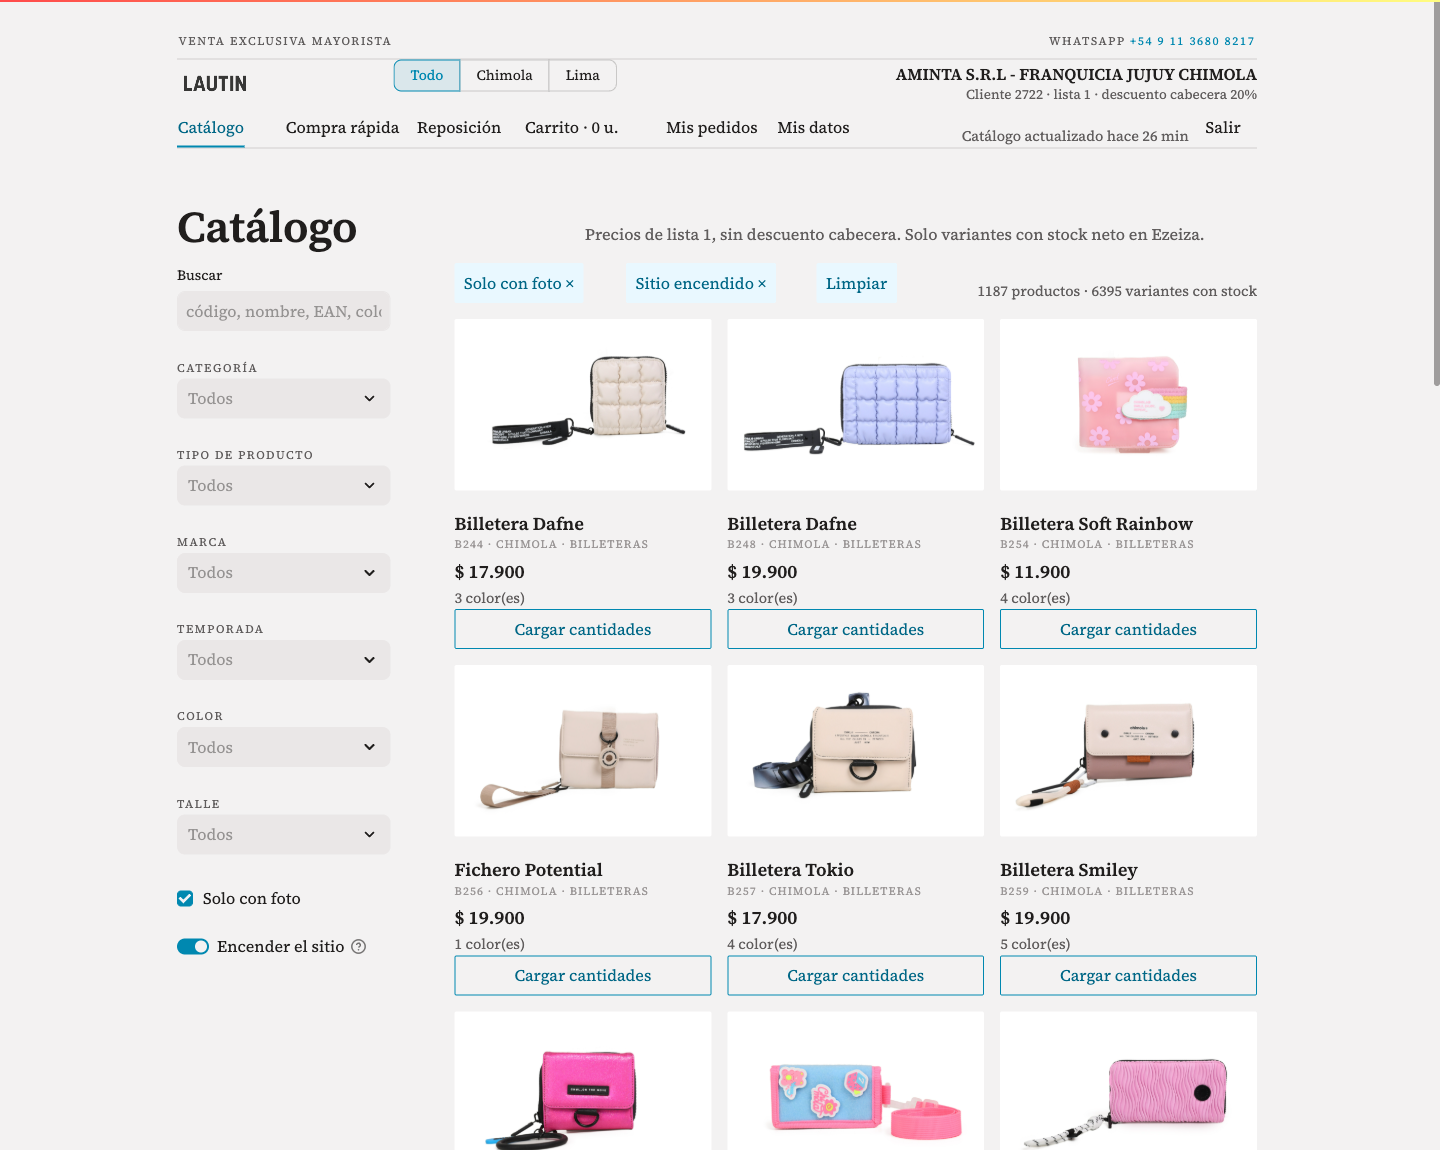
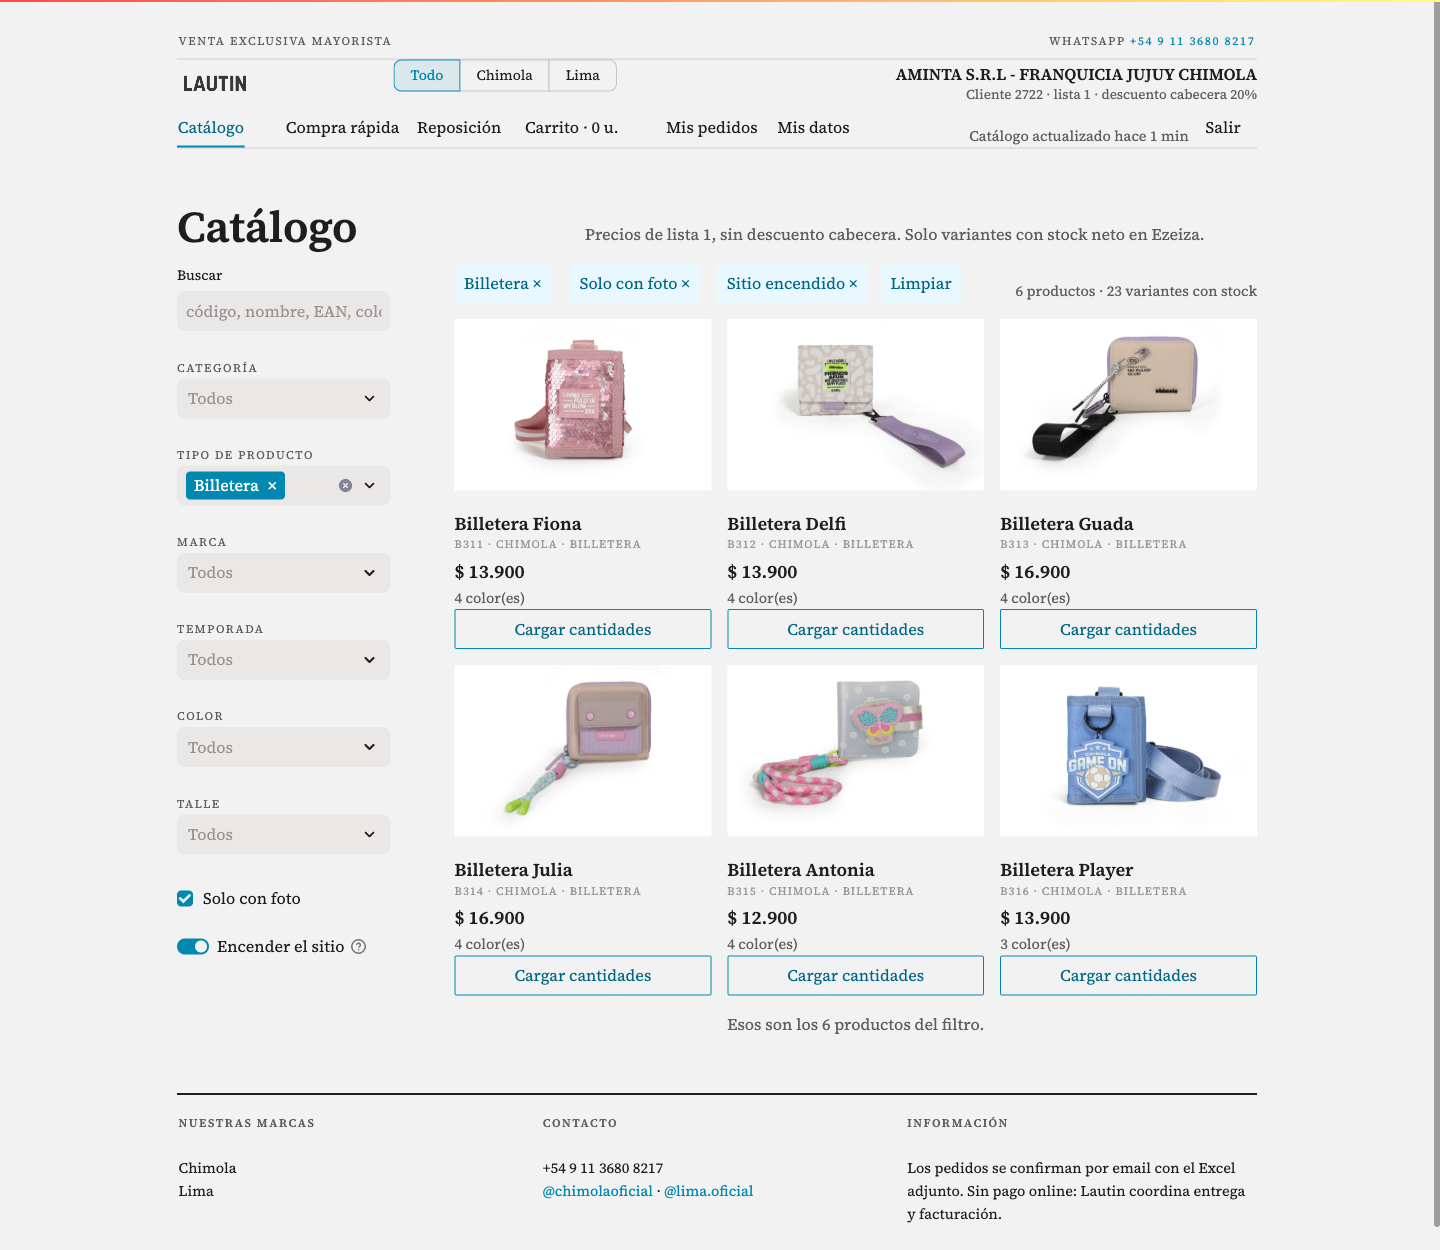
Presentación v3: narrativa 1-5, ficha de producto, bandas admin, Excel render, impersonal
Claude-Session: https://claude.ai/code/session_01L96DzHR7EepPvCdgaQbg37

diff --git a/presentacion/index.html b/presentacion/index.html
@@ -71,6 +71,13 @@
     padding: 5px 11px; border-radius: 2px; opacity: 0; animation: prende 7s ease-in-out infinite; }
   @keyframes apaga { 0%, 45% { opacity: 1; } 50%, 95% { opacity: 0; } 100% { opacity: 1; } }
   .xfade .tag1 { animation: apaga 7s ease-in-out infinite; background: var(--tinta); }
+  .fase { position: absolute; left: 0; right: 0; bottom: 0; background: rgba(32, 30, 29, .85);
+    color: #fff; padding: 9px 16px; font-size: 12px; letter-spacing: .1em; text-transform: uppercase;
+    font-weight: 600; }
+  .figura { position: relative; }
+  .xfade .fase2 { opacity: 0; animation: prende 7s ease-in-out infinite; }
+  .xfade .fase1b { animation: apaga 7s ease-in-out infinite; }
+  .xfade.lento img + img, .xfade.lento .fase2, .xfade.lento .fase1b { animation-duration: 13s; }
 
   .centro { text-align: center; flex-direction: column; }
   .logo { height: 58px; margin-bottom: 34px; }
@@ -118,12 +125,11 @@
   <!-- 2 · Forma 1: catálogo -->
   <section class="slide"><div class="split">
     <div>
-      <div class="kicker reveal">Cómo se compra · 1 de 4</div>
+      <div class="kicker reveal">Cómo se compra · 1 de 5</div>
       <h2 class="reveal">Mirando el catálogo</h2>
       <ul class="puntos">
         <li class="reveal">Fotos y <b>stock real de Ezeiza</b>: lo que se ve, se puede pedir.</li>
         <li class="reveal">Filtros que acompañan el scroll, búsqueda y <b>scroll infinito</b>.</li>
-        <li class="reveal"><b>«Cargar cantidades»</b> abre la compra ahí mismo, sin salir de la vista.</li>
         <li class="reveal">Y el switch <b>“Encender el sitio”</b>: todo el catálogo en colores claros.</li>
       </ul>
     </div>
@@ -136,15 +142,30 @@
     </div>
   </div></section>
 
-  <!-- 3 · Cargar cantidades: solo color vs talle × color -->
+  <!-- 3 · Carga directa en el catálogo -->
   <section class="slide"><div class="split">
     <div>
-      <div class="kicker reveal">Cómo se compra · 2 de 4</div>
-      <h2 class="reveal">Tocá «Cargar cantidades»</h2>
+      <div class="kicker reveal">Cómo se compra · 2 de 5</div>
+      <h2 class="reveal">Carga directa en el catálogo</h2>
+      <ul class="puntos">
+        <li class="reveal"><b>«Cargar cantidades»</b> despliega el panel en la misma vista.</li>
+        <li class="reveal">Cantidades por variante <b>sin perder los filtros ni el scroll</b>.</li>
+        <li class="reveal">Total en vivo y directo al carrito.</li>
+      </ul>
+    </div>
+    <div class="browser reveal"><div class="bar"><i></i><i></i><i></i><span>mayorista.lautin / Catálogo</span></div>
+      <img src="img/02c_panel_catalogo.png" alt="Panel de carga en el catálogo"></div>
+  </div></section>
+
+  <!-- 4 · La ficha de producto -->
+  <section class="slide"><div class="split">
+    <div>
+      <div class="kicker reveal">Cómo se compra · 3 de 5</div>
+      <h2 class="reveal">La ficha de producto</h2>
       <ul class="puntos">
         <li class="reveal">Producto con <b>colores</b>: una fila por color, y listo.</li>
         <li class="reveal">Con <b>talle y color</b>: la matriz completa, <b>todas las variantes de una sola vez</b>.</li>
-        <li class="reveal">Total en vivo, aviso si pedís de más (sin revelar el stock) y al carrito.</li>
+        <li class="reveal">Avisa si se pide más de lo disponible, sin revelar el stock.</li>
         <li class="reveal">Arriba, la galería: las miniaturas cambian el visor por color.</li>
       </ul>
     </div>
@@ -161,7 +182,7 @@
   <!-- 4 · Forma 2: compra rápida -->
   <section class="slide"><div class="split">
     <div>
-      <div class="kicker reveal">Cómo se compra · 3 de 4</div>
+      <div class="kicker reveal">Cómo se compra · 4 de 5</div>
       <h2 class="reveal">Compra rápida</h2>
       <ul class="puntos">
         <li class="reveal">Una sola vista: <b>todo el catálogo en una tabla</b> con miniaturas.</li>
@@ -176,13 +197,12 @@
   <!-- 5 · Forma 3: el circuito Excel -->
   <section class="slide"><div class="split">
     <div>
-      <div class="kicker reveal">Cómo se compra · 4 de 4</div>
+      <div class="kicker reveal">Cómo se compra · 5 de 5</div>
       <h2 class="reveal">El circuito Excel</h2>
       <ul class="puntos">
-        <li class="reveal">Filtrás lo que quieras y <b>exportás</b>: miniaturas, link a cada foto, precios de TU lista y totales con tu descuento.</li>
+        <li class="reveal">Cualquier filtro <b>se exporta a Excel</b>: miniaturas, link a cada foto, precios de la lista del cliente y totales con su descuento.</li>
         <li class="reveal">Todo bloqueado salvo <b>Cantidad</b> (resaltada): imposible romperlo.</li>
-        <li class="reveal">Lo completás offline, con quien quieras, y <b>lo subís tal cual</b>.</li>
-        <li class="reveal">El sitio reconcilia línea por línea: agregadas, ajustadas, sin reconocer.</li>
+        <li class="reveal"><b>Se puede completar offline</b> y volver a subir tal cual.</li>
       </ul>
     </div>
     <div class="browser reveal"><div class="bar"><i></i><i></i><i></i><span>Exportar → completar → subir</span></div>
@@ -201,7 +221,7 @@
       <div class="kicker reveal">Cómo se compra · solo franquicias</div>
       <h2 class="reveal">Reposición sugerida</h2>
       <ul class="puntos">
-        <li class="reveal">Cruza <b>lo que vendió tu punto de venta</b> con lo disponible en Ezeiza.</li>
+        <li class="reveal">Cruza <b>lo que vendió el punto de venta</b> con lo disponible en Ezeiza.</li>
         <li class="reveal">Días a cubrir (7/14/21/30), filtros y <b>cantidades sugeridas editables</b>.</li>
         <li class="reveal">Un click al carrito, o el mismo circuito Excel, ya precargado.</li>
       </ul>
@@ -213,8 +233,8 @@
   <!-- 7 · Autogestión -->
   <section class="slide"><div class="split">
     <div>
-      <div class="kicker reveal">Cómo se compra · el día después</div>
-      <h2 class="reveal">El cliente se maneja solo</h2>
+      <div class="kicker reveal">Postventa</div>
+      <h2 class="reveal">Autonomía del cliente</h2>
       <ul class="puntos">
         <li class="reveal"><b>Mis pedidos</b>: historial con estados, detalle completo, repetir, re-descargar el Excel.</li>
         <li class="reveal">Puede <b>cancelar</b> mientras Lautin no lo procesó, con aviso automático.</li>
@@ -238,11 +258,11 @@
       </ul>
     </div>
     <div class="browser reveal"><div class="bar"><i></i><i></i><i></i><span>mayorista.lautin / Administración</span></div>
-      <div class="xfade">
+      <div class="xfade lento figura">
         <img src="img/08_admin_editor.png" alt="Datos, precios y variantes">
         <img src="img/08b_admin_fotos.png" alt="Variantes manuales, fotos por color y portada">
-        <div class="tag tag1">Datos, precios y variantes</div>
-        <div class="tag">Fotos y portada</div>
+        <div class="fase fase1b">Editor de producto · datos, precios y variantes</div>
+        <div class="fase fase2">Editor de producto · variantes manuales, fotos y portada</div>
       </div>
     </div>
   </div></section>
@@ -260,7 +280,8 @@
       </ul>
     </div>
     <div class="browser reveal"><div class="bar"><i></i><i></i><i></i><span>mayorista.lautin / Administración</span></div>
-      <img src="img/09_cliente_edit.png" alt="Edición de cliente"></div>
+      <div class="figura"><img src="img/09_cliente_edit.png" alt="Edición de cliente">
+        <div class="fase">Edición del cliente</div></div></div>
   </div></section>
 
   <!-- 10 · Admin: pedidos modificables -->
@@ -272,11 +293,11 @@
         <li class="reveal"><b>Modificar un pedido confirmado</b>: cambiar cantidades o quitar líneas.</li>
         <li class="reveal">Recalcula totales, <b>regenera el Excel</b> y le avisa al cliente qué cambió.</li>
         <li class="reveal">Estados con un click (procesado / cancelado); una vez procesado, <b>inmutable</b>.</li>
-        <li class="reveal">Cada cambio queda en el historial del pedido, con quién y cuándo.</li>
       </ul>
     </div>
     <div class="browser reveal"><div class="bar"><i></i><i></i><i></i><span>mayorista.lautin / Administración</span></div>
-      <img src="img/10b_modificar.png" alt="Modificar pedido"></div>
+      <div class="figura"><img src="img/10b_modificar.png" alt="Modificar pedido">
+        <div class="fase">Detalle del pedido · edición de líneas</div></div></div>
   </div></section>
 
   <!-- 11 · Admin: historia del cliente -->
@@ -287,11 +308,12 @@
       <ul class="puntos">
         <li class="reveal">Métricas: <b>total histórico, ticket promedio, último pedido</b>.</li>
         <li class="reveal">Todos sus pedidos con estados, y el <b>top de productos</b> que compra.</li>
-        <li class="reveal"><b>Import del historial de Aleph</b>: los pedidos previos al sitio, sin duplicar.</li>
+        <li class="reveal"><b>Import del historial de Aleph</b>: los pedidos previos al sitio.</li>
       </ul>
     </div>
     <div class="browser reveal"><div class="bar"><i></i><i></i><i></i><span>mayorista.lautin / Administración</span></div>
-      <img src="img/10_admin_cliente.png" alt="Ficha del cliente"></div>
+      <div class="figura"><img src="img/10_admin_cliente.png" alt="Ficha del cliente">
+        <div class="fase">Ficha del cliente · métricas e historial</div></div></div>
   </div></section>
 
   <!-- 12 · Comunicaciones -->
@@ -317,7 +339,7 @@
     <h1 class="reveal" style="font-size:clamp(32px,4.2vw,56px)">Un solo lugar para comprarle a Lautin</h1>
     <div class="linea reveal"></div>
     <p class="sub reveal" style="max-width:52ch; margin:0 auto">Funcionando con los datos reales de
-      Aleph. Próximo paso: cuentas para todos los clientes y salida a producción.</p>
+      Aleph.</p>
     <div class="reveal"><span class="url">mayorista-b2b-dev-vhnuyigzqa-uc.a.run.app</span></div>
   </section>
 
